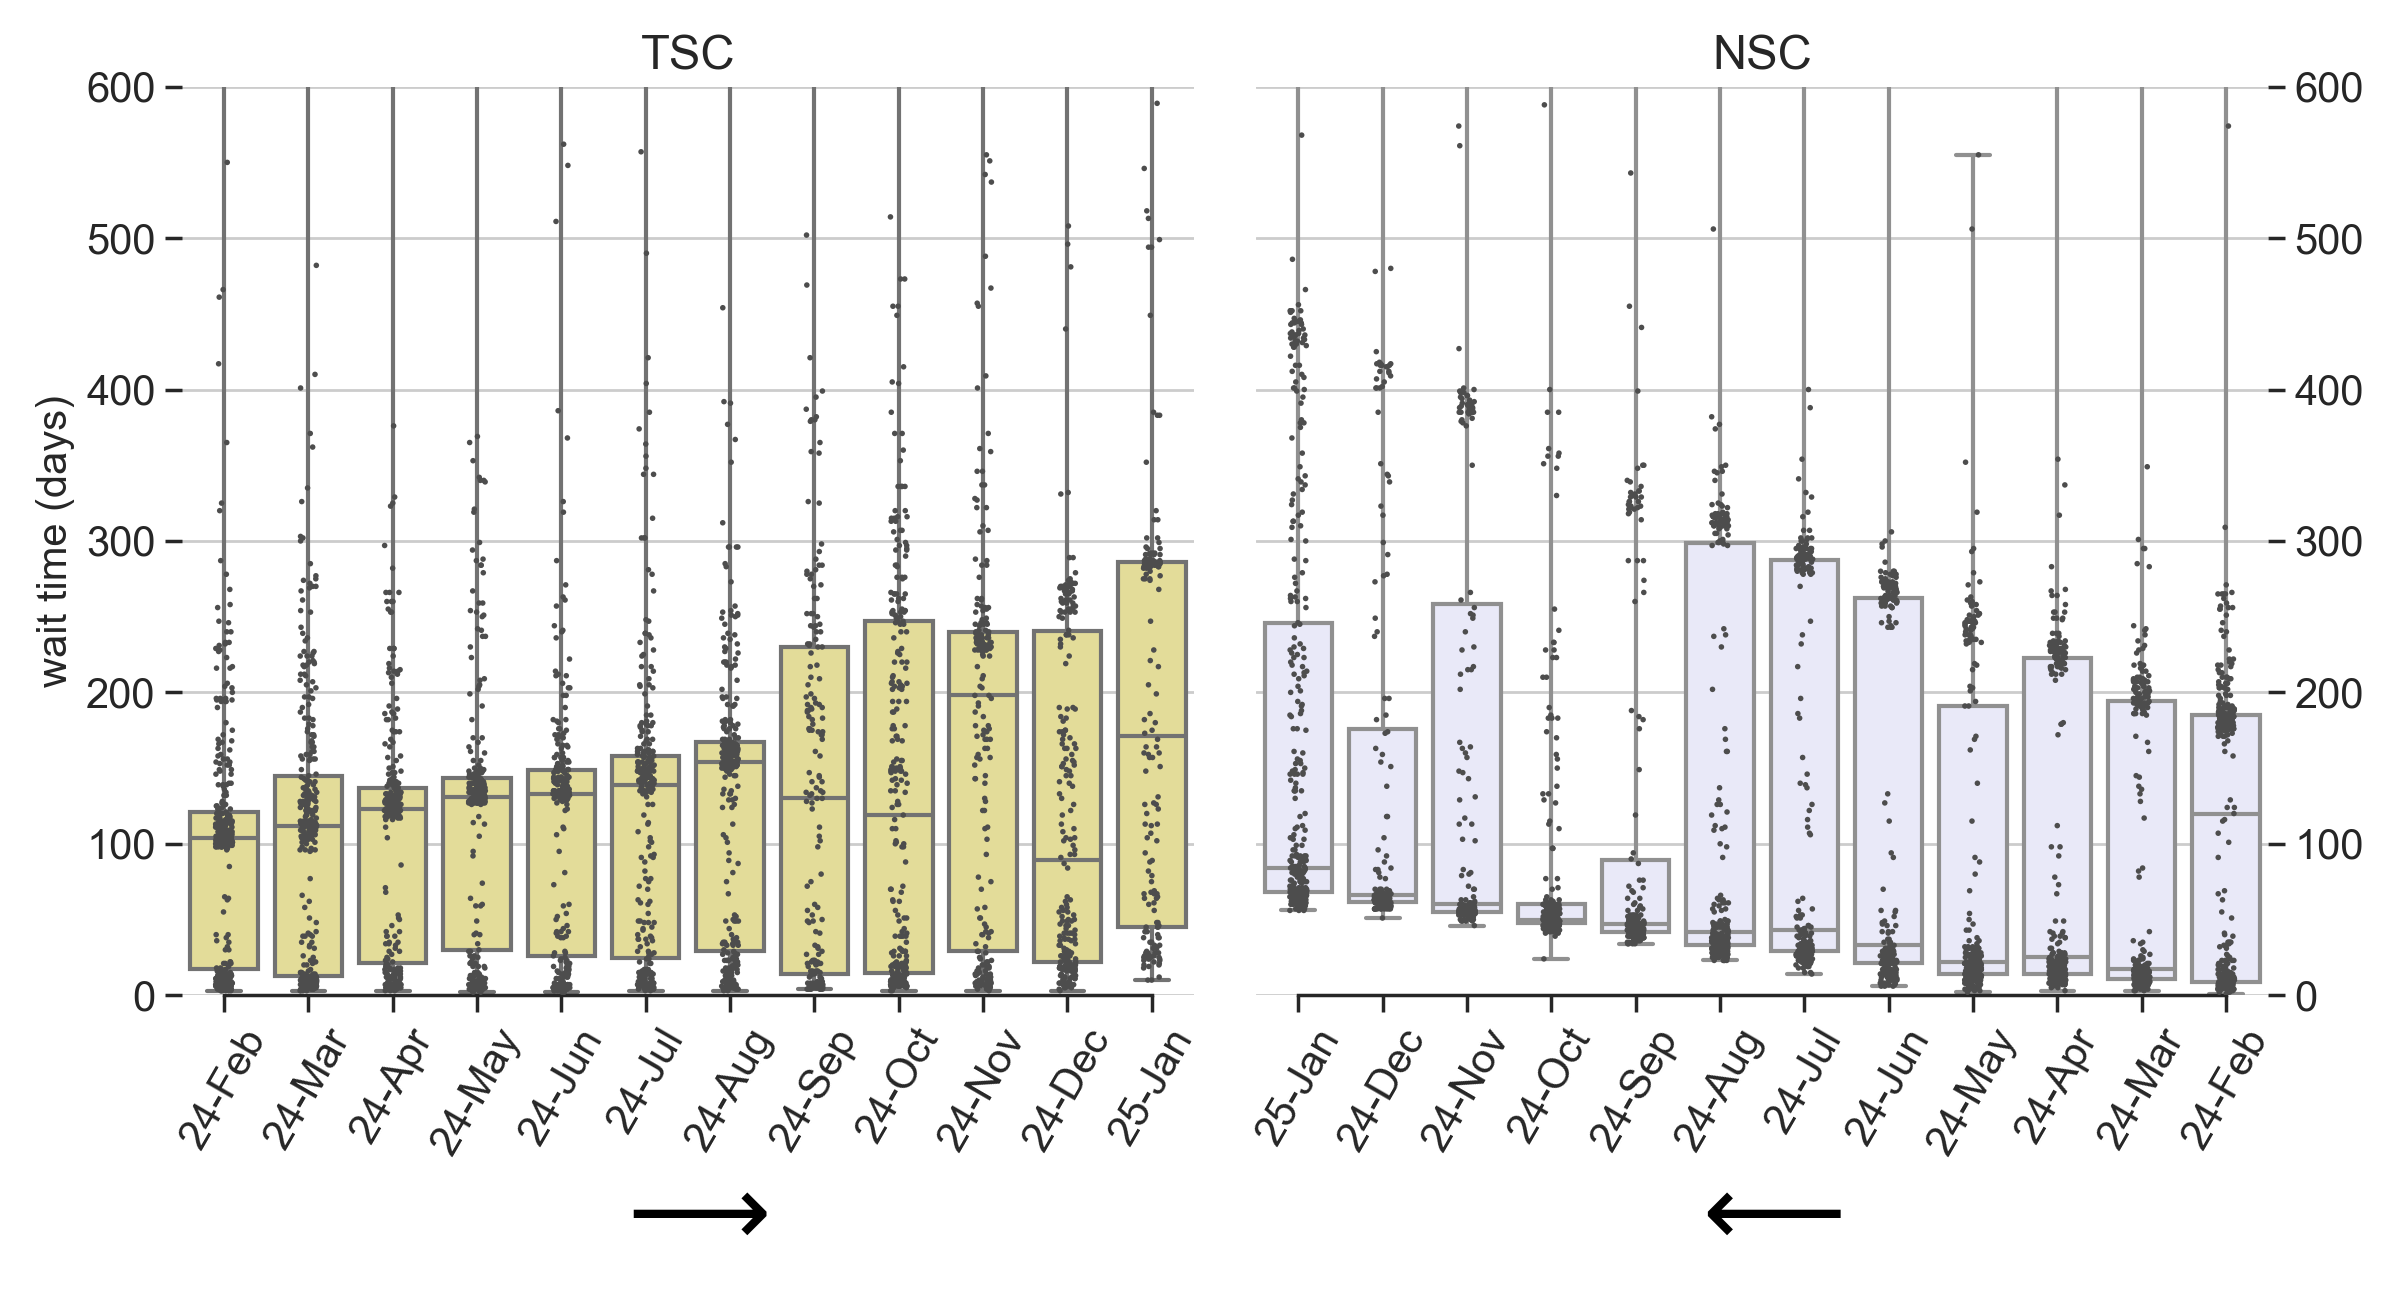
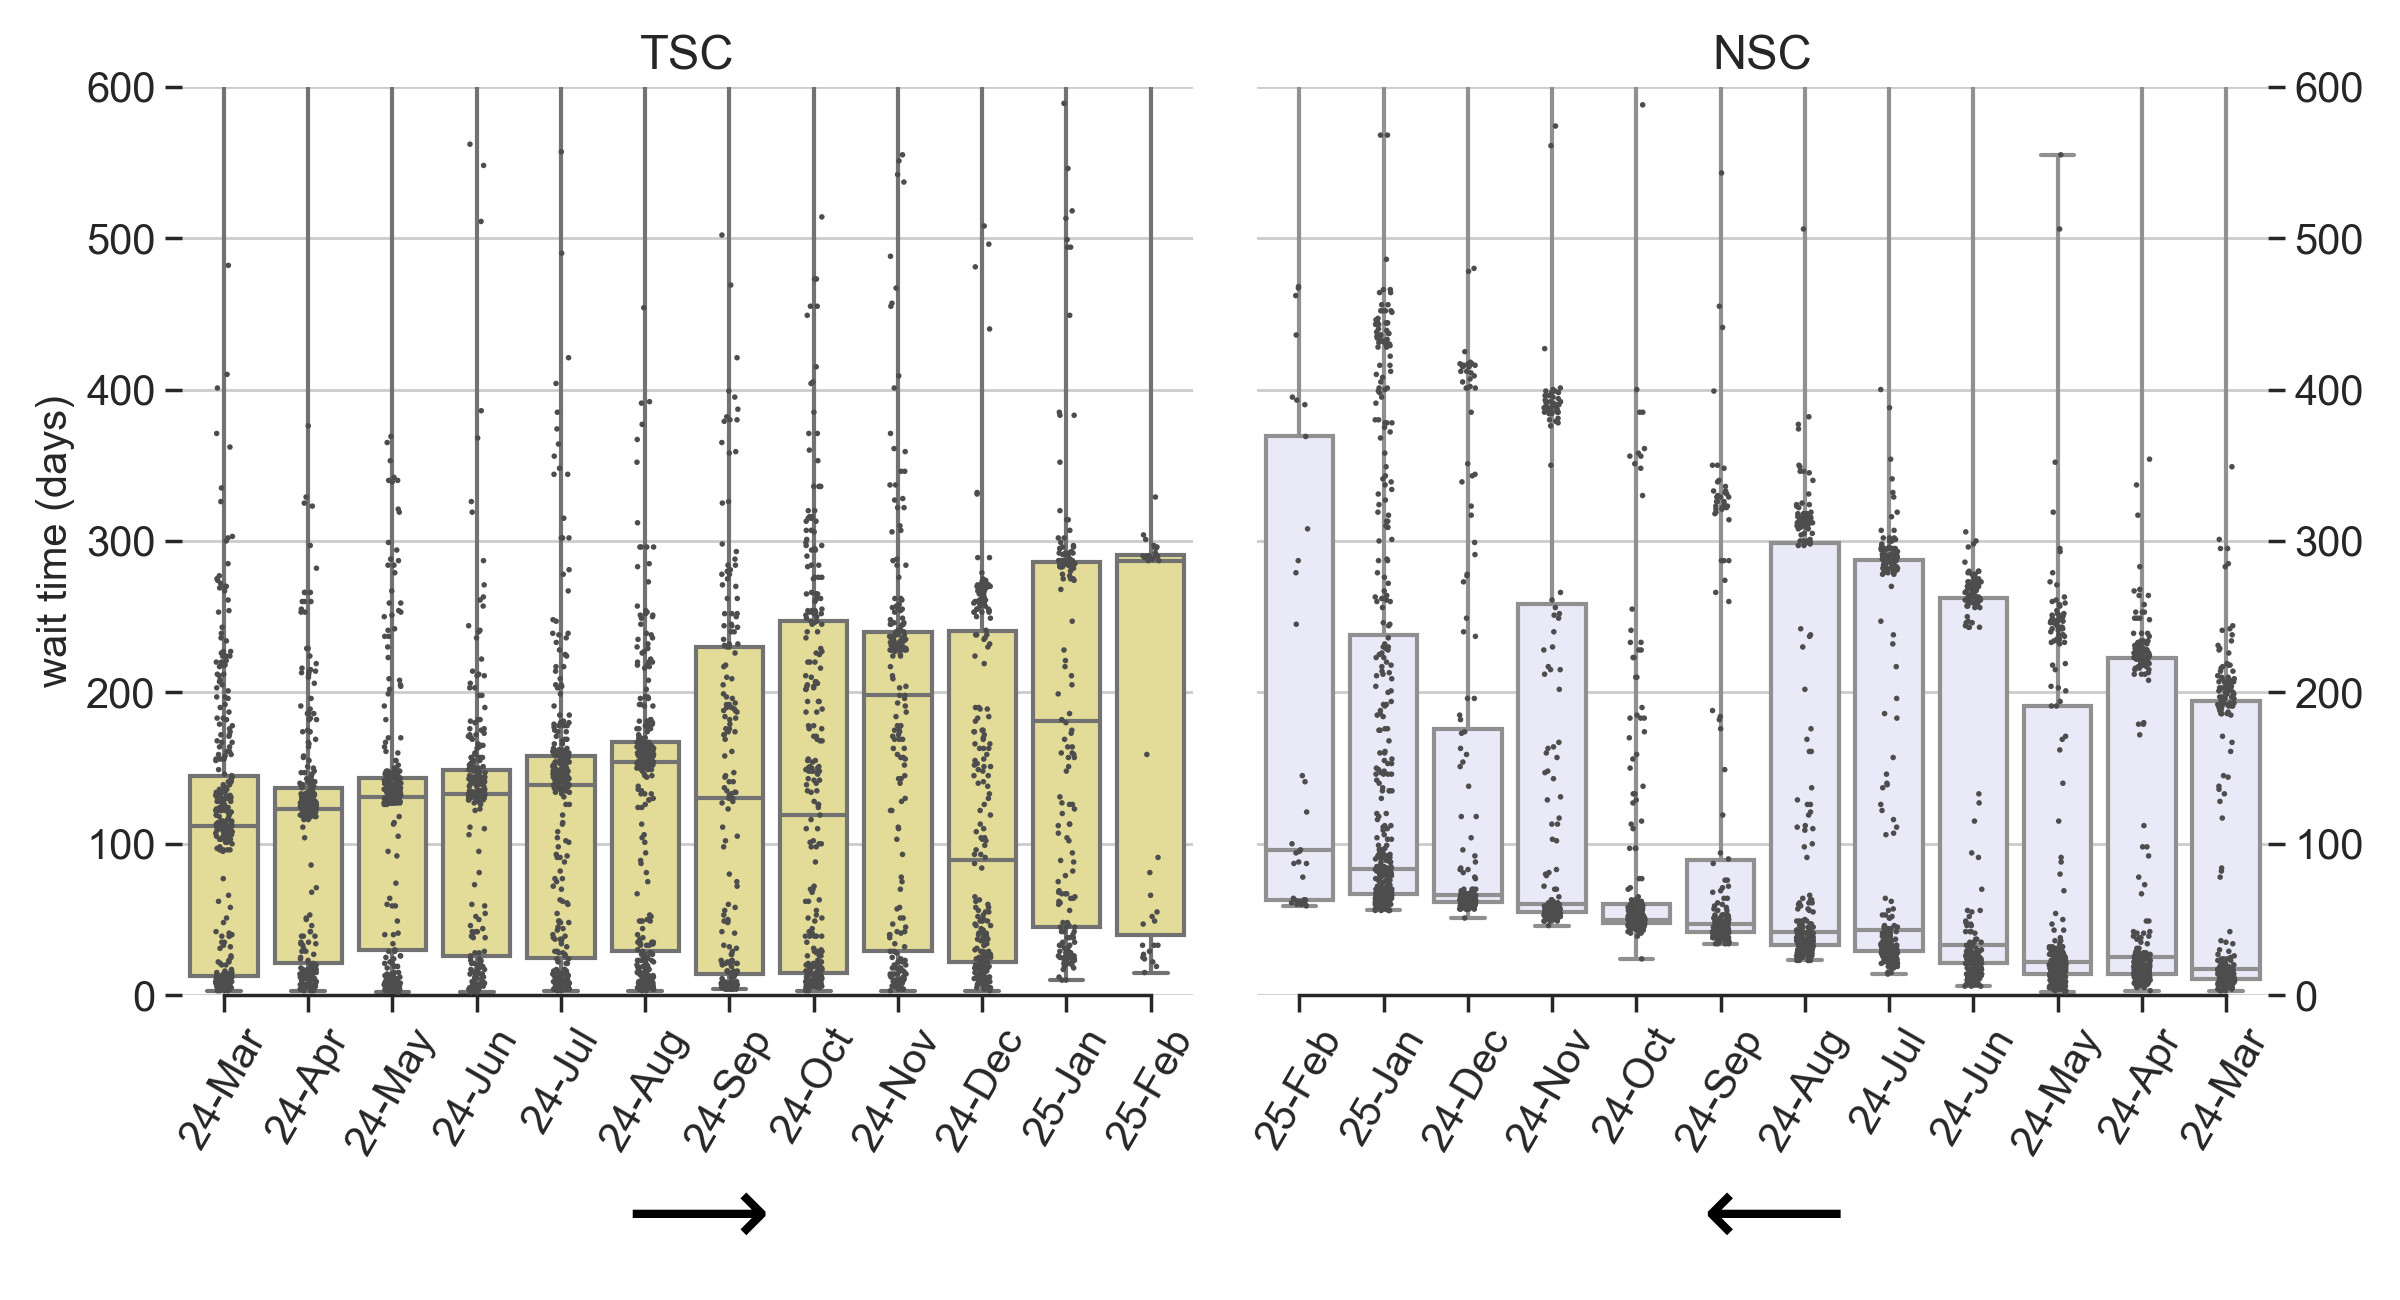
Feb-2025 update

diff --git a/README.md b/README.md
@@ -1,4 +1,4 @@
-## National Interest Waiver Wait Time, updated Feb-16-2025 
+## National Interest Waiver Wait Time, updated Feb-20-2025 
 * sec203(b)(2), Indiv w/Adv Deg or Exceptional Ability in National Interest are counted as NIW cases from now on. 
  
 USCIS Employment-based-2 NIW I-140 wait time before approval (data source: [Victoria Chen](https://www.wegreened.com/eb1_niw_approvals)). 
